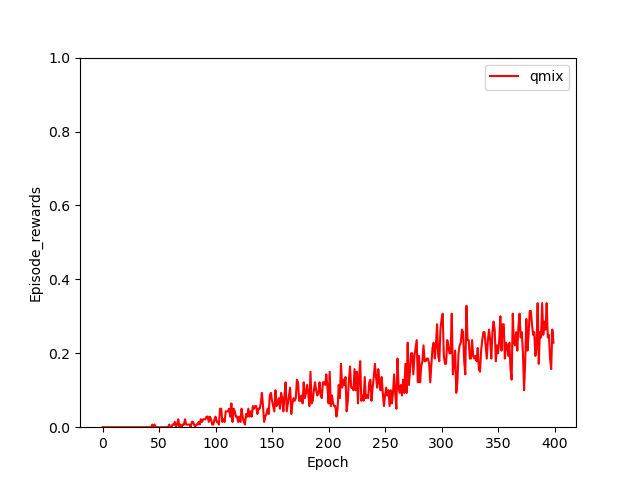
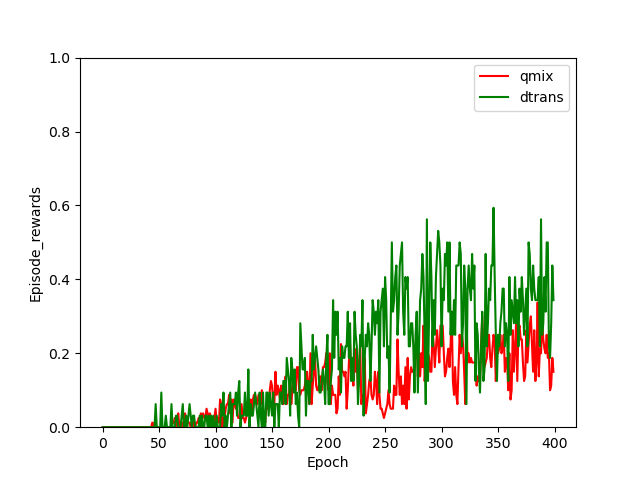
doubleq

Changed region(s): [[0.2188, 0.4375, 0.875, 0.9062], [0.75, 0.125, 0.9062, 0.2188]]

diff --git a/policy/ddn.py b/policy/ddn.py
@@ -128,18 +128,19 @@ class DDN:
             terminated = terminated.cuda()
         # 得到每个agent对应的Q值，维度为(episode个数, max_episode_len， n_agents，n_actions)
         Z_evals, Z_targets, rnd_qs, rnd_tqs = self.get_Z_values(batch, max_episode_len)
-        # Z : (b, t, n, a, nq)
+        # Z_evals : (b, t+1, n, a, nq)
+        # Z_targets : (b, t, n, a, ntq)
         # rnd_qs : (b, t, 1, nq)
         # u : (b,t,n,1)
         action_for_zs = u.unsqueeze(4).expand(-1,-1,-1,-1,self.nq)
-        chosen_action_Zs = torch.gather(Z_evals, dim=3, index = action_for_zs).squeeze(3)
+        chosen_action_Zs = torch.gather(Z_evals[:,:-1], dim=3, index = action_for_zs).squeeze(3)
        
         target_avail_actions = avail_u_next.unsqueeze(4).expand(-1, -1, -1, -1, self.ntq)
         Z_targets[target_avail_actions==0] = -9999999
         
         if self.args.double_q or self.args.alg == 'dplex':
-            Z_eval_clone = Z_evals.clone().detach()
-            avail_actions = avail_u.unsqueeze(4).expand(-1,-1,-1,-1, self.nq)
+            Z_eval_clone = Z_evals[:,1:].clone().detach()
+            avail_actions = avail_u_next.unsqueeze(4).expand(-1,-1,-1,-1, self.nq)
             Z_eval_clone[avail_actions==0] = -9999999
             max_action_qvals, target_max_actions = Z_eval_clone.mean(dim=4).max(dim=3,keepdim=True)
             target_max_actions = target_max_actions.unsqueeze(4).expand(-1,-1,-1,-1,self.ntq)
@@ -270,12 +271,17 @@ class DDN:
             Z_targets.append(Z_target)
             rnd_qs.append(rnd_q)
             rnd_tqs.append(rnd_tq)
+            # for double q learning
+            if i == max_episode_len-1:
+                Z_eval, self.eval_hidden, rnd_q = self.eval_rnn(inputs_next, self.eval_hidden, "policy")
+                Z_eval = Z_eval.view(b, self.n_agents, self.n_actions, self.nq)
+                Z_evals.append(Z_eval)
         Z_evals = torch.stack(Z_evals, dim=1)
         Z_targets = torch.stack(Z_targets, dim=1)
         rnd_qs = torch.stack(rnd_qs, dim=1)
         rnd_tqs = torch.stack(rnd_tqs, dim=1)
         return Z_evals, Z_targets, rnd_qs, rnd_tqs
-
+    
     def init_hidden(self, episode_num):
         # 为每个episode中的每个agent都初始化一个eval_hidden、target_hidden
         self.eval_hidden = torch.zeros((episode_num, self.n_agents, self.args.rnn_hidden_dim))

diff --git a/common/analyse.py b/common/analyse.py
@@ -4,7 +4,7 @@ import matplotlib.pyplot as plt
 
 def plt_win_rate_mean():
     path = []
-    alg_num = 1
+    alg_num = 2
     win_rates = [[] for _ in range(alg_num)]
     game_map = '5m_vs_6m'
     #path.append('../result/vdn/' + game_map)
@@ -16,8 +16,8 @@ def plt_win_rate_mean():
     #path.append('../result/central_v+g2anet/' + game_map)
     #path.append('../result/ddn/'+game_map)
     #path.append('../result/ddn+om/'+game_map)
-    #path.append('../result/dtrans/' + game_map)
-    num_run = 8
+    path.append('../result/dtrans/' + game_map)
+    num_run = 5
     for i in range(alg_num):
         for j in range(num_run):
             try:
@@ -36,6 +36,7 @@ def plt_win_rate_mean():
     plt.plot(range(len(episode_rewards[2])), episode_rewards[2], c='g', label='dtrans')"""
     #plt.plot(range(len(win_rates[0])), win_rates[0], c='b', label='vdn')
     plt.plot(range(len(win_rates[0])), win_rates[0], c='r', label='qmix')
+    plt.plot(range(len(win_rates[1])), win_rates[1], c='g', label='dtrans')
     """plt.plot(range(len(win_rates[2])), win_rates[2], c='g', label='qtran_base')
     plt.plot(range(len(win_rates[3])), win_rates[3], c='y', label='qtran_alt')
     plt.plot(range(len(win_rates[4])), win_rates[4], c='c', label='coma')
